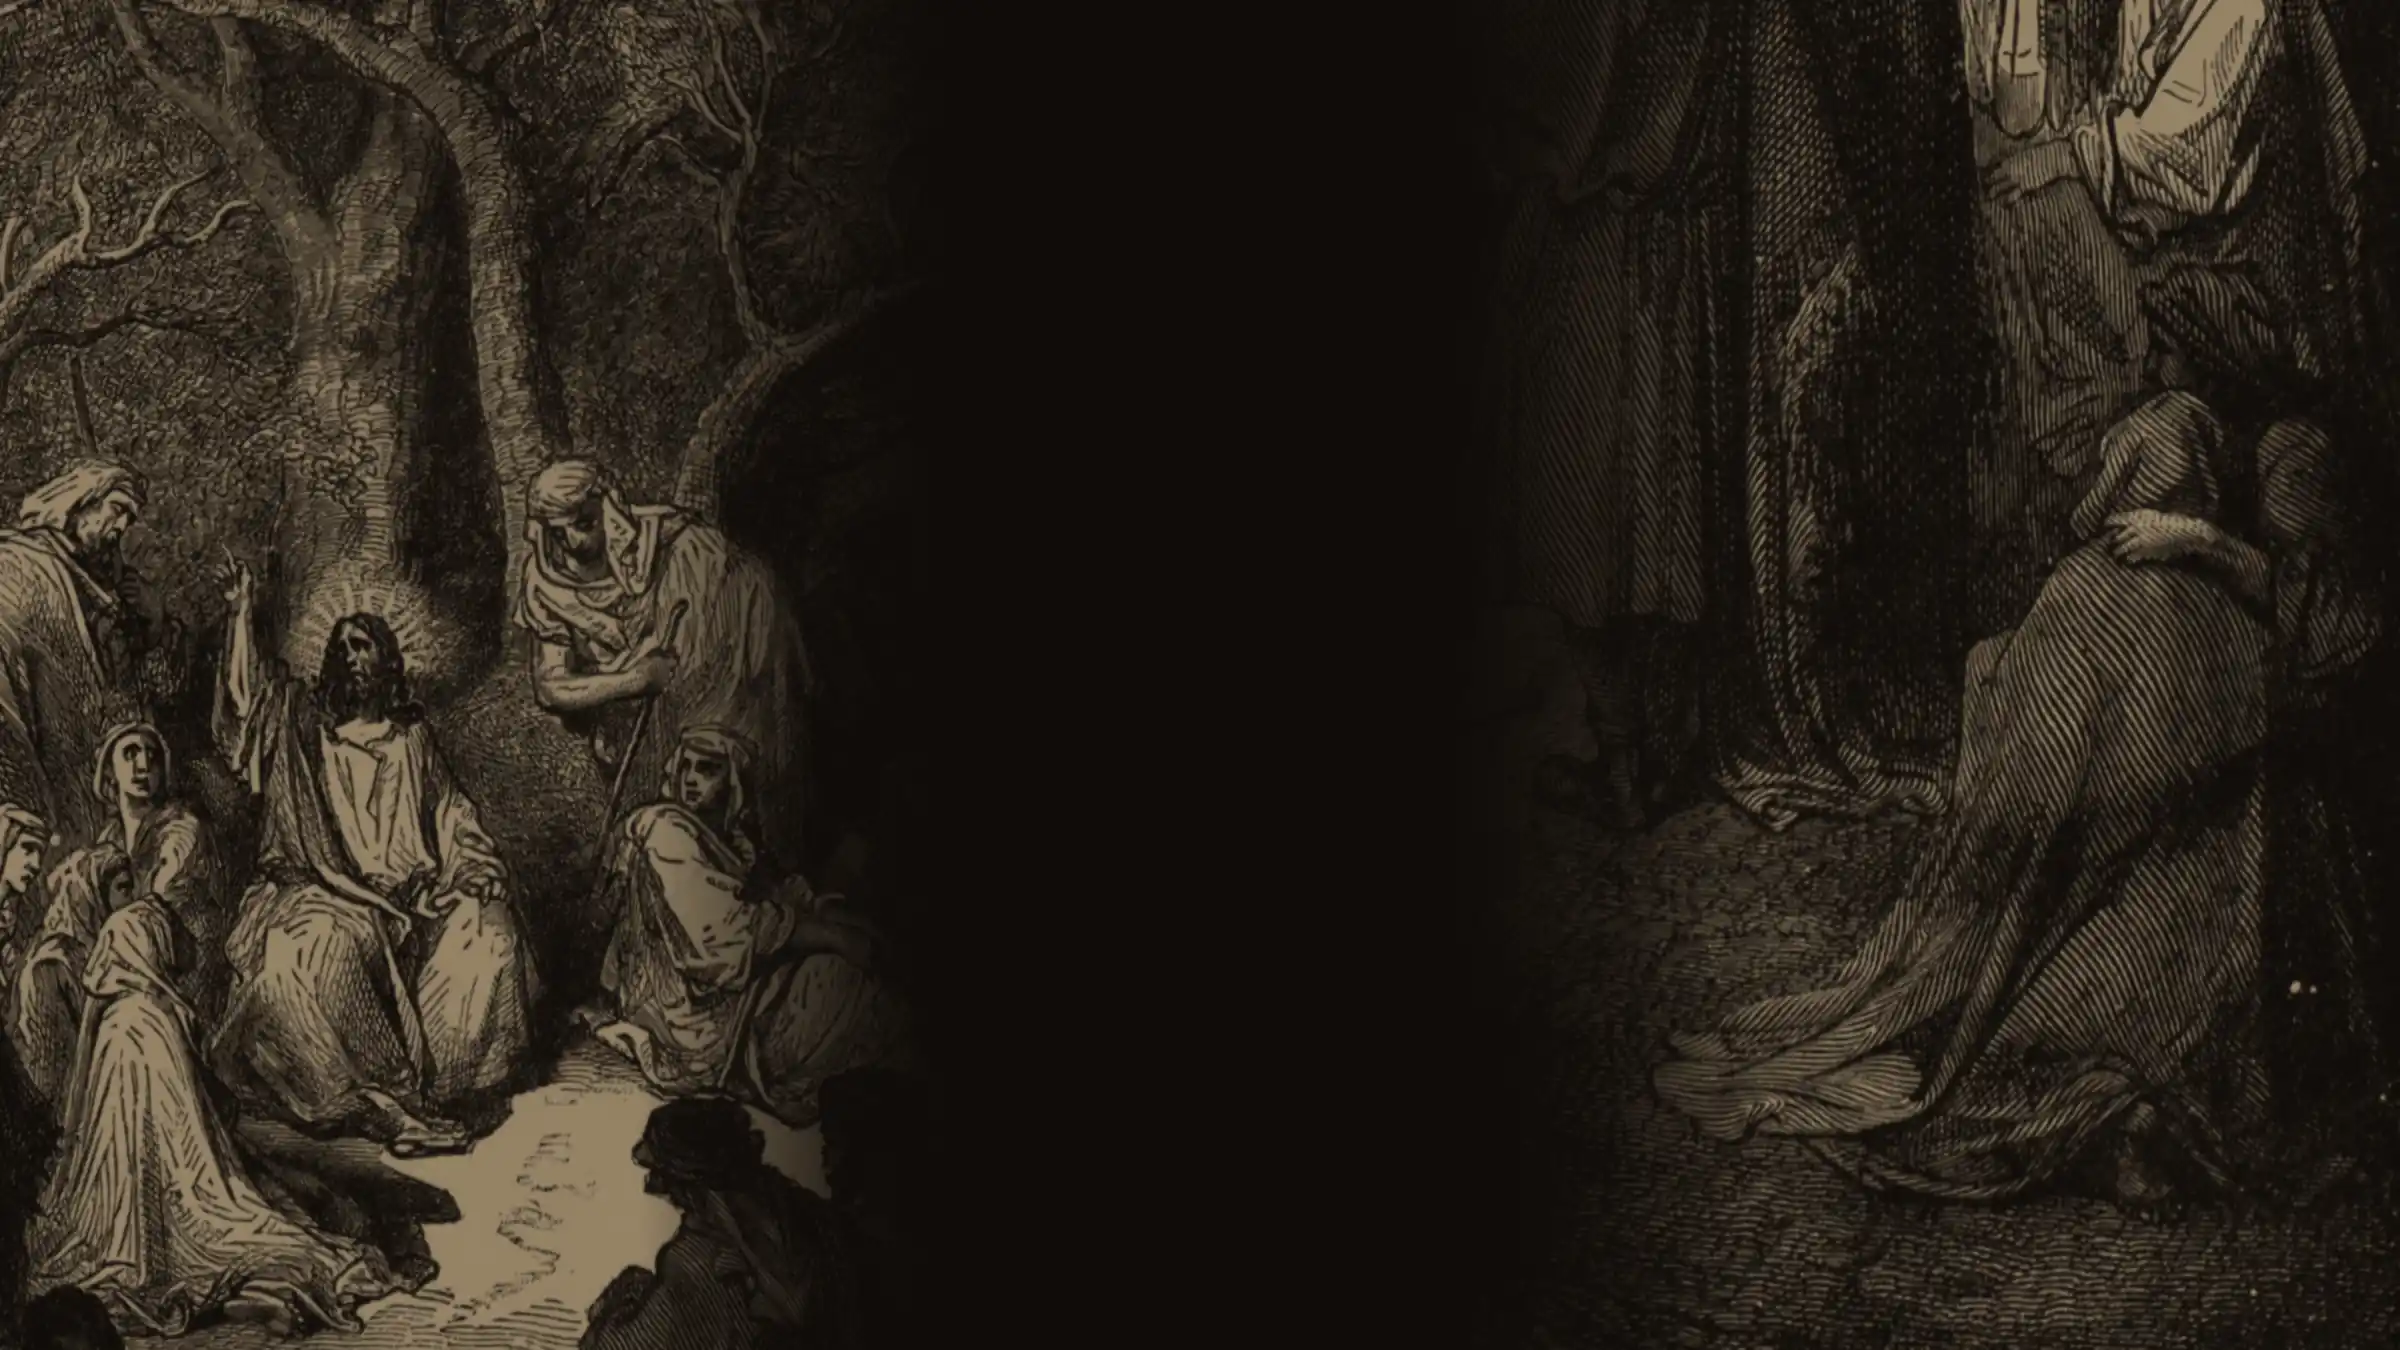
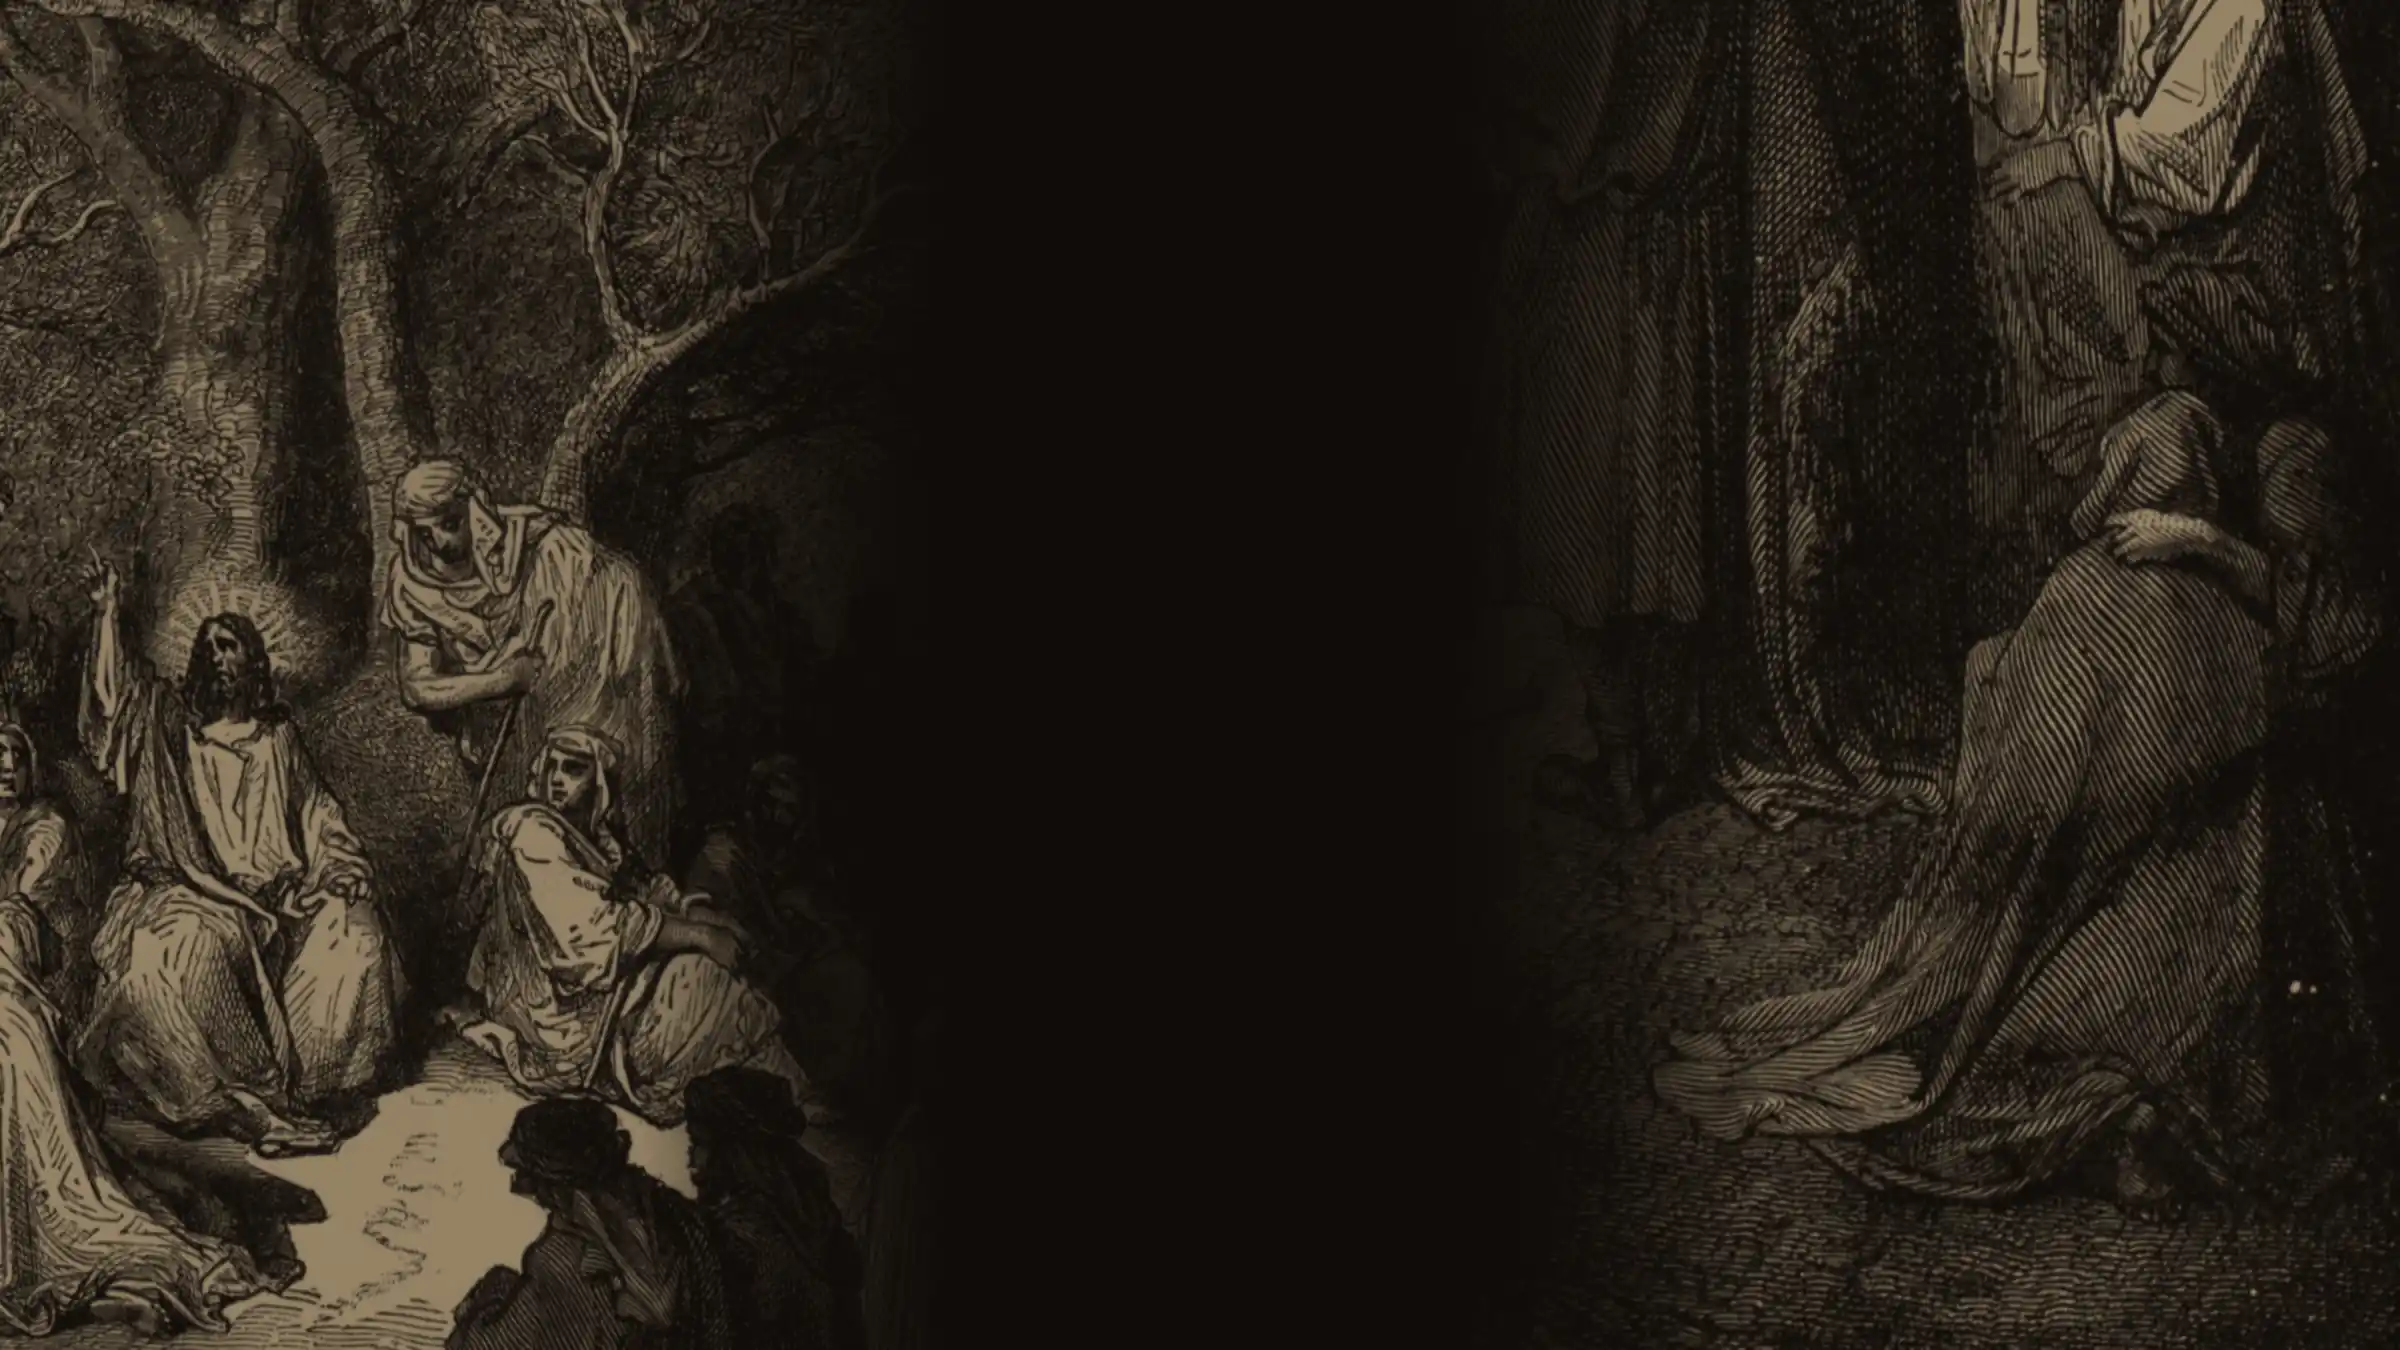
fix(art): QA r155 S3 — Jerome whole in the right margin, Christ in the left, from 1600
Rooms: the sleeping lion on the left ("rooms",.586,.825,.35), Jerome at his desk on the right ("rooms",.575,.467,.36),
so his head clears the real column at 1600/1700/1920/2560. A room: left panel cx .58 -> .64 so Christ sits whole in
the left margin from 1600. Head boxes for both added to art-two-sides.test (header kept at 115px, stricter than QA's 113).

Changed region(s): [[0.0, 0.0, 0.3438, 1.0]]

diff --git a/src/lib/board/art-two-sides.test.ts b/src/lib/board/art-two-sides.test.ts
@@ -25,11 +25,11 @@ const PLATES: Record<string, { left: Panel; right: Panel }> = {
     right: { artist: "Gustave Doré", work: "Jacob's Dream", box: [0.422, 0.055, 0.819, 0.505] },
   },
   "plate-rooms-A-2400.webp": {
-    left: { artist: "Albrecht Dürer", work: "Saint Jerome in His Study", box: [0.091, 0.125, 0.509, 0.575] },
-    right: { artist: "Albrecht Dürer", work: "Saint Jerome in His Study", box: [0.488, 0.3, 0.952, 0.8] },
+    left: { artist: "Albrecht Dürer", work: "Saint Jerome in His Study", box: [0.423, 0.65, 0.749, 1.0] },
+    right: { artist: "Albrecht Dürer", work: "Saint Jerome in His Study", box: [0.408, 0.287, 0.742, 0.647] },
   },
   "plate-room-A-2400.webp": {
-    left: { artist: "Gustave Doré", work: "The Sermon on the Mount", box: [0.364, 0.105, 0.796, 0.555] },
+    left: { artist: "Gustave Doré", work: "The Sermon on the Mount", box: [0.424, 0.105, 0.856, 0.555] },
     right: { artist: "Gustave Doré", work: "The Sermon on the Mount", box: [0.627, 0.55, 0.973, 0.91] },
   },
   "plate-groups-A-2400.webp": {
@@ -169,7 +169,7 @@ test("the credit chip names both works where the right edge is a second work", (
  * gives), below the sticky header, inside the screen, and clear of the panel's fade into the dark middle.
  * The plate is drawn `center 35%/cover`, also read from the sheets. Boxes were measured on the files.
  */
-const HEADER_PX = 115; // the sticky header's height, measured in the real app at 1600-2560
+const HEADER_PX = 115; // the sticky header, measured in the real app at 1600-2560 (QA measured 113; 115 is the stricter)
 const HEADS: Record<string, { who: string; box: [number, number, number, number]; from: number }[]> = {
   "plate-messages-A-2400.webp": [{ who: "Erasmus", box: [2020, 210, 2150, 570], from: 1600 }],
   "plate-you-A-2400.webp": [
@@ -184,6 +184,11 @@ const HEADS: Record<string, { who: string; box: [number, number, number, number]
     { who: "the woman in the turban", box: [130, 400, 230, 560], from: 1600 },
     { who: "the mother", box: [2050, 330, 2240, 520], from: 1600 },
   ],
+  "plate-rooms-A-2400.webp": [
+    { who: "the lion", box: [40, 440, 360, 800], from: 1600 },
+    { who: "Saint Jerome", box: [2040, 600, 2250, 870], from: 1600 },
+  ],
+  "plate-room-A-2400.webp": [{ who: "Christ", box: [170, 600, 265, 710], from: 1600 }],
   "plate-week-A-2400.webp": [{ who: "Jacob", box: [230, 420, 380, 520], from: 1920 }],
 };
 

diff --git a/public/art/ATTRIBUTION.md b/public/art/ATTRIBUTION.md
@@ -64,7 +64,7 @@ fails if any screen at 1600, 1920 or 2560 shows the same file or panel twice, or
 | Screen | Left edge | Right edge | File |
 |---|---|---|---|
 | This week | Doré, *Jacob's Dream*: Jacob asleep (lower left) | the same plate: the lit top of the ladder and angels | `plate-week-A-2400.webp` |
-| Rooms | Dürer, *Saint Jerome in His Study*: the window and sill | the same plate: Jerome at his desk | `plate-rooms-A-2400.webp` |
+| Rooms | Dürer, *Saint Jerome in His Study*: the sleeping lion | the same plate: Jerome at his desk | `plate-rooms-A-2400.webp` |
 | A room | Doré, *The Sermon on the Mount*: Christ and the hillside | the same plate: the listeners, lower right | `plate-room-A-2400.webp` |
 | Groups | Dürer, *The Feast of the Rose Garlands*: the pope's party | the same work: the emperor's party | `plate-groups-A-2400.webp` |
 | A group | Doré, *Ruth and Boaz*: the gleaners, left | the same plate: the reapers, right | `plate-group-A-2400.webp` |
